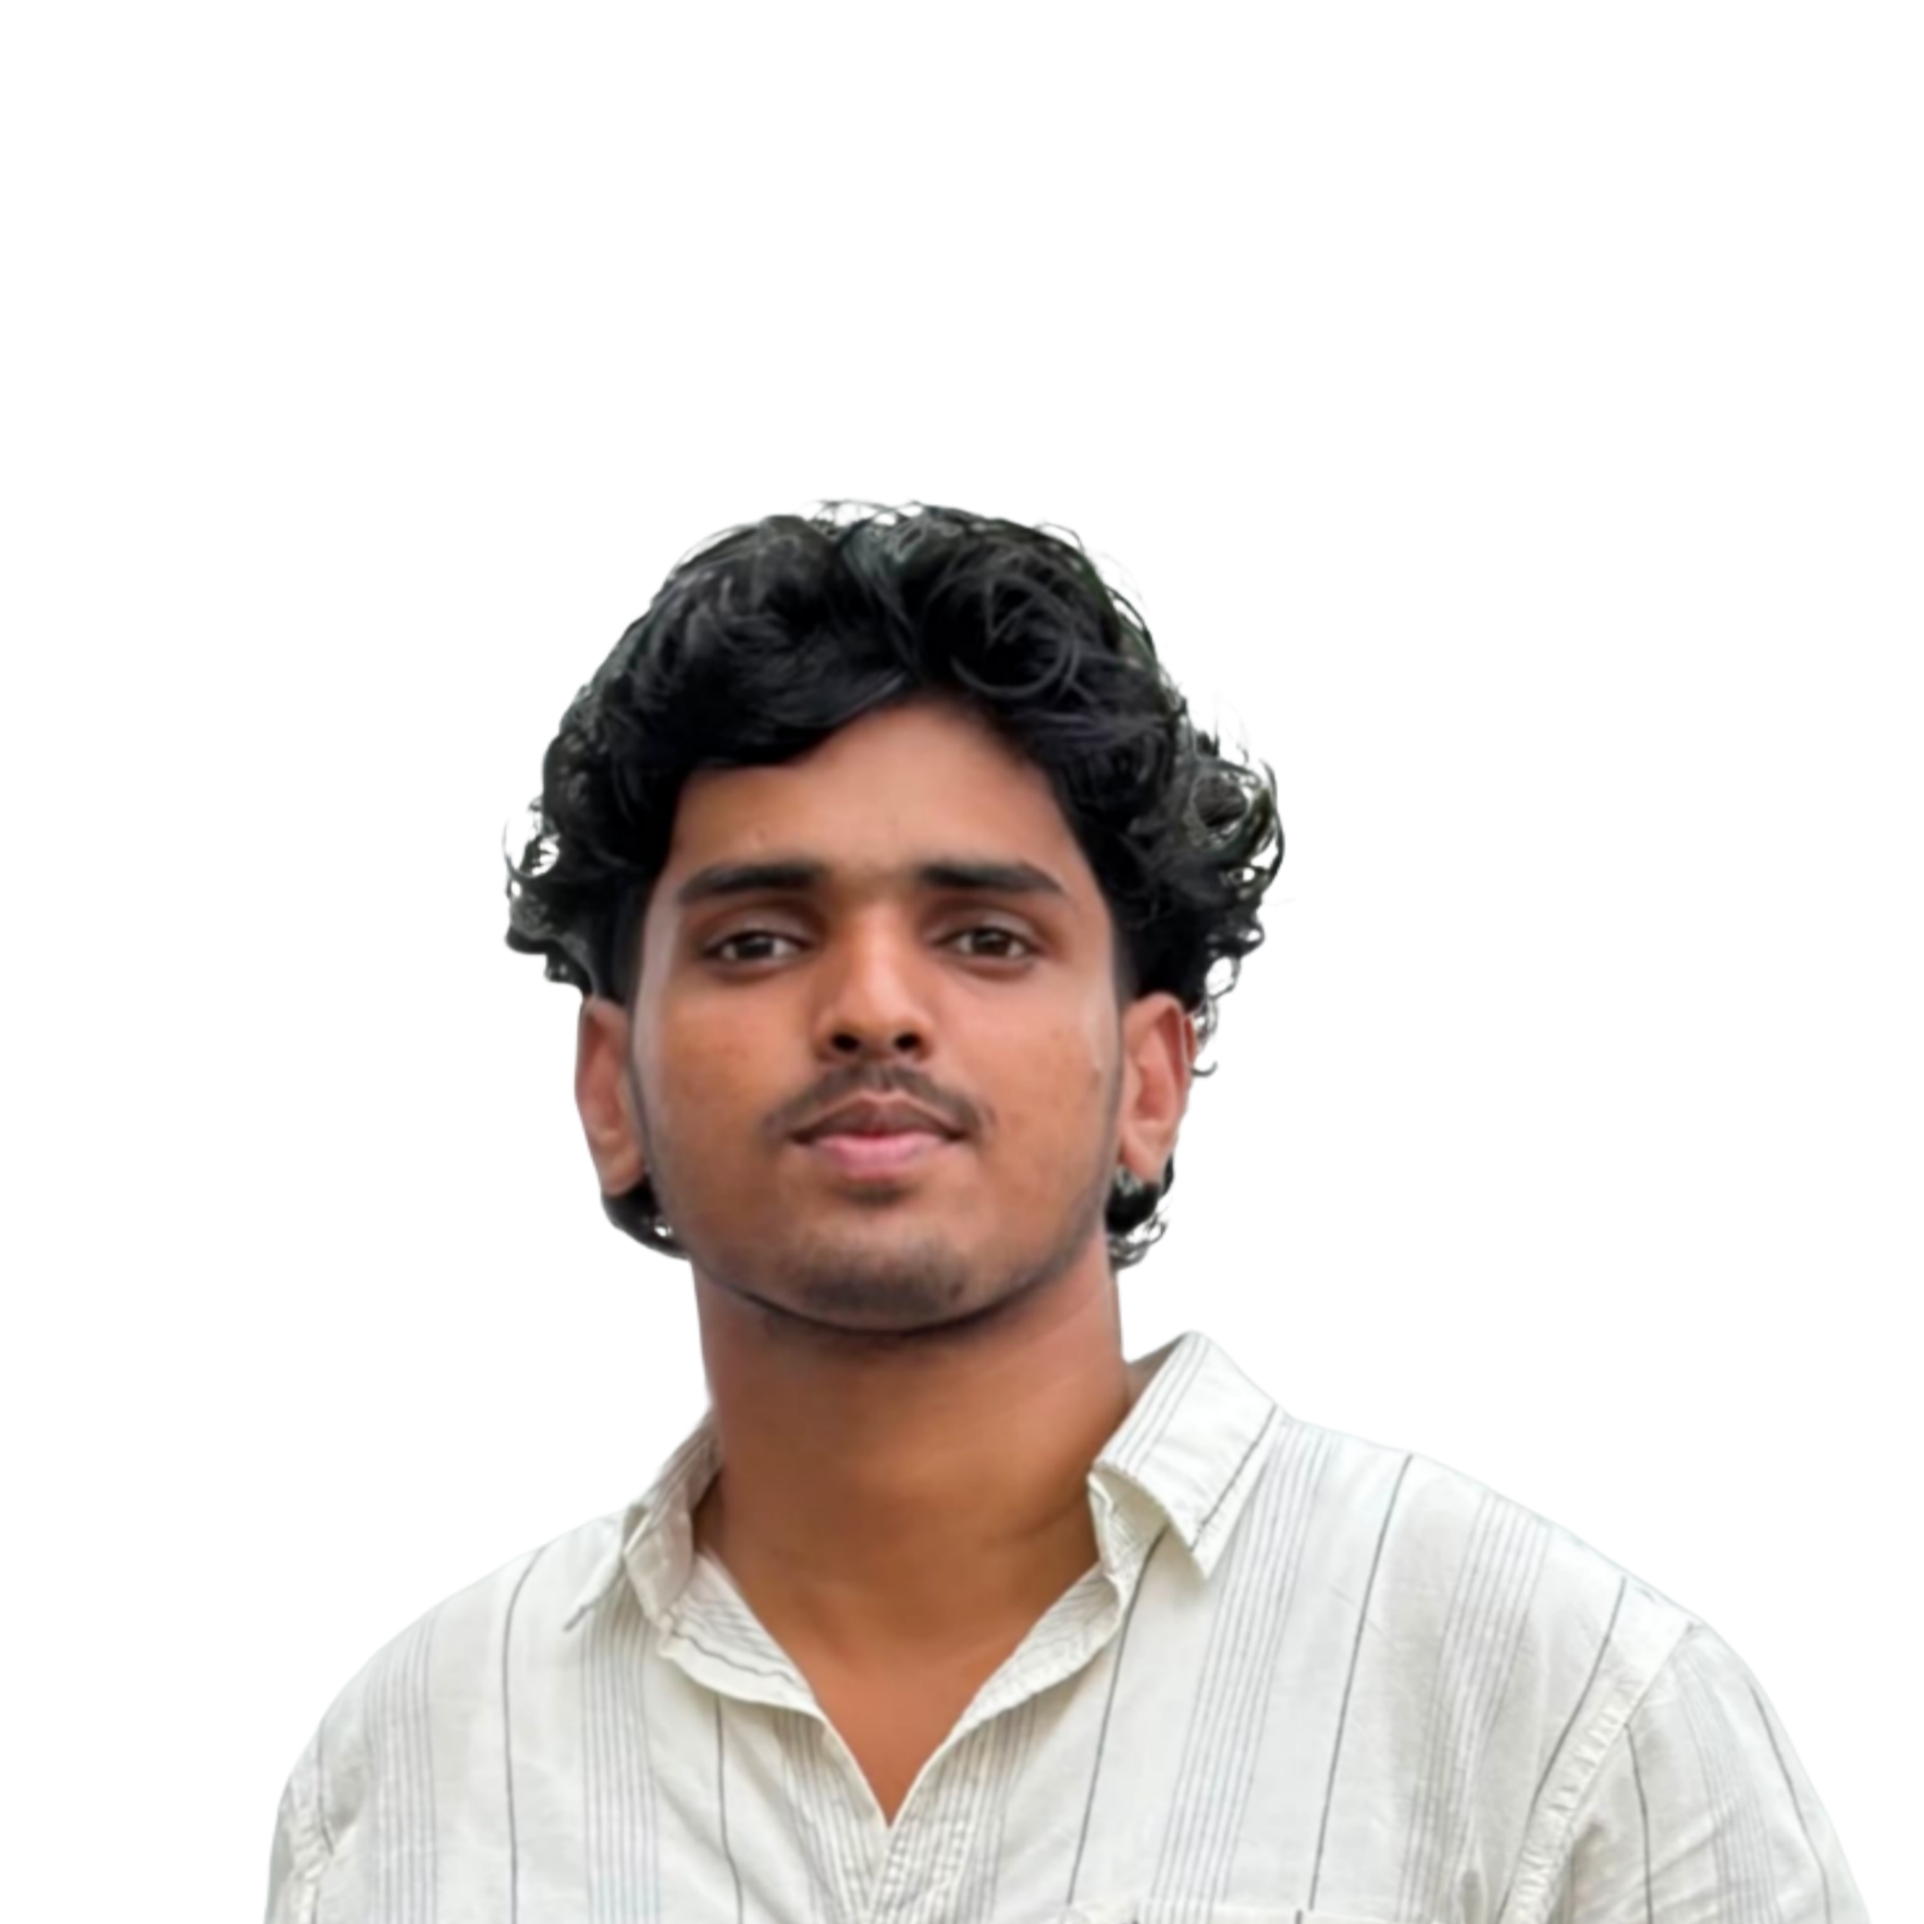
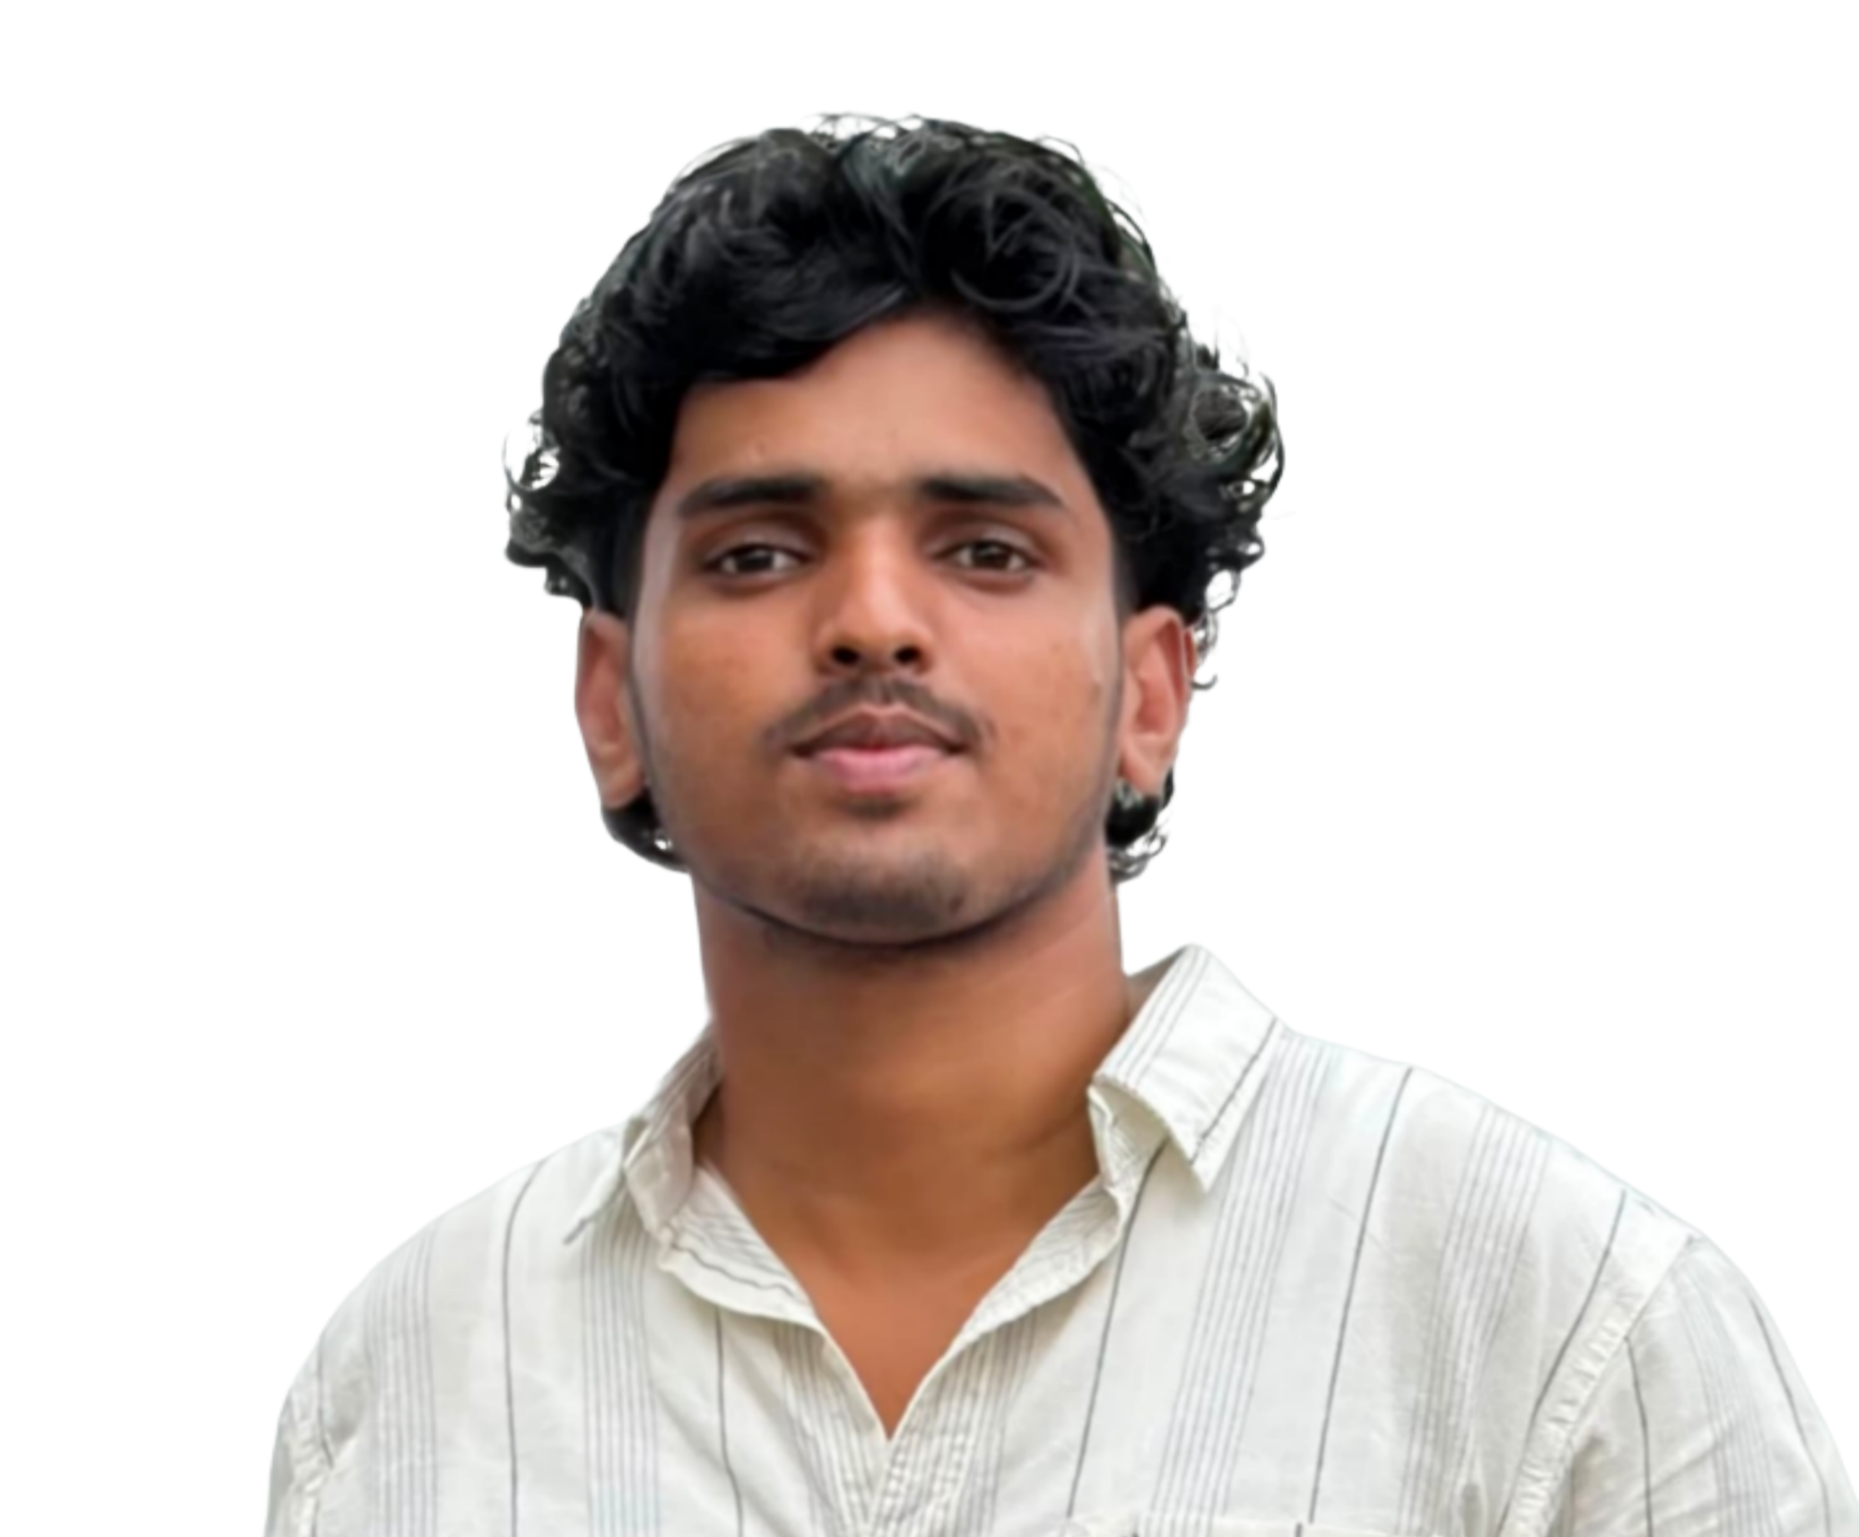
Update email to harigovindp004@gmail.com and configure FormSubmit endpoint for direct inbox delivery

Changed region(s): [[0.1243, 0.0621, 1.0, 1.0]]

diff --git a/src/data/portfolioData.js b/src/data/portfolioData.js
@@ -7,15 +7,15 @@ export const personalInfo = {
   headline: "Computer Science & Engineering Graduate",
   bio: "Computer Science & Engineering graduate focused on turning data into intelligent solutions using Machine Learning, AI and modern software technologies.",
   location: "Kasargod, Kerala, India",
-  email: "harigovindp.dev@gmail.com",
+  email: "harigovindp004@gmail.com",
   social: {
     github: "https://github.com/Haariiiii",
     linkedin: "https://linkedin.com/in/harigovind-p",
-    emailLink: "mailto:harigovindp.dev@gmail.com"
+    emailLink: "mailto:harigovindp004@gmail.com"
   },
   resumePath: "/resume.pdf", // Place your updated resume.pdf in the public/ folder
   profileImage: "/profile.png", // Profile image path in public folder
-  formspreeEndpoint: "https://formspree.io/f/your_form_id" // Replace with your actual Formspree endpoint or EmailJS key
+  formspreeEndpoint: "https://formsubmit.co/ajax/harigovindp004@gmail.com" // Direct email delivery to harigovindp004@gmail.com
 };
 
 export const aboutData = {
